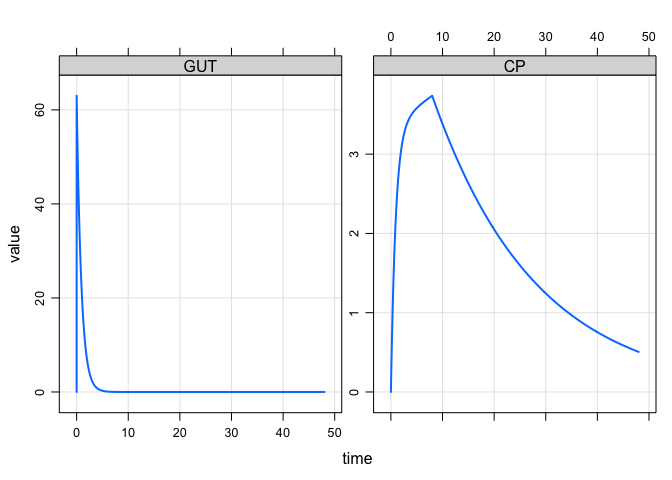
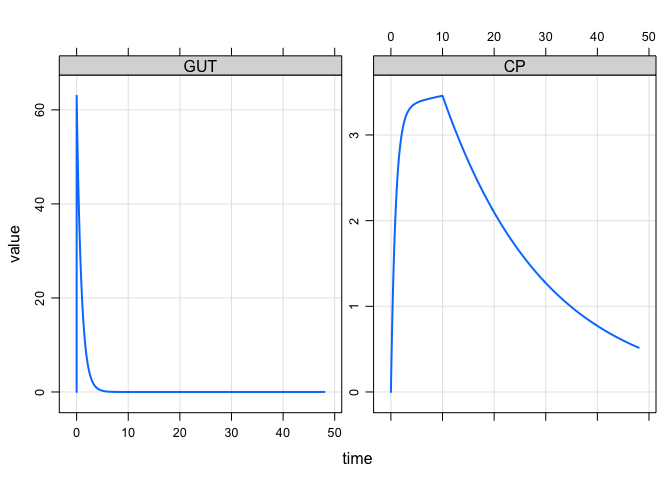
clean up parallel vignette

diff --git a/absorption/parallel.md b/absorption/parallel.md
@@ -8,19 +8,21 @@ library(mrgsolve)
 
 ## PK model
 
-  - One-compartment, with absorption / depot compartment (`GUT`)
-  - We want to administer a single dose, administering a certain
-    fraction by a zero-order infusion and the remaining fraction by
-    first order absorption
-  - To split to dose, we use the bioavailability paramete for `GUT` and
-    `CENT`
+  - One-compartment (`CENT`), with absorption / depot compartment
+    (`GUT`)
+  - We want to administer a single dose, with a certain fraction as a a
+    zero-order infusion and the remaining fraction by first order
+    absorption
+  - To split to dose, we use the bioavailability parameter for `GUT` and
+    `CENT` (`F_GUT` and `F_CENT`, respectively) and we specify the
+    duration of the infusion with `D_CENT`.
 
 <!-- end list -->
 
 ``` r
 code <- '
 $PARAM CL = 1, V = 20, KA = 1.1
-frac_infusion = 0.37, dur_infusion = 8
+frac_infusion = 0.37, dur_infusion = 10
 
 $PKMODEL cmt = "GUT CENT", depot = TRUE
 
@@ -83,7 +85,15 @@ and the other gets both (green line):
 
 ``` r
 data <- as_data_set(infusion, zero, dose)
+
+data
 ```
+
+    .   ID time  cmt evid amt rate
+    . 1  1    0 CENT    1 100   -2
+    . 2  2    0  GUT    1 100    0
+    . 3  3    0 CENT    1 100   -2
+    . 4  3    0  GUT    1 100    0
 
 ``` r
 mrgsim_d(mod,data) %>% plot(GUT+CP~time)
